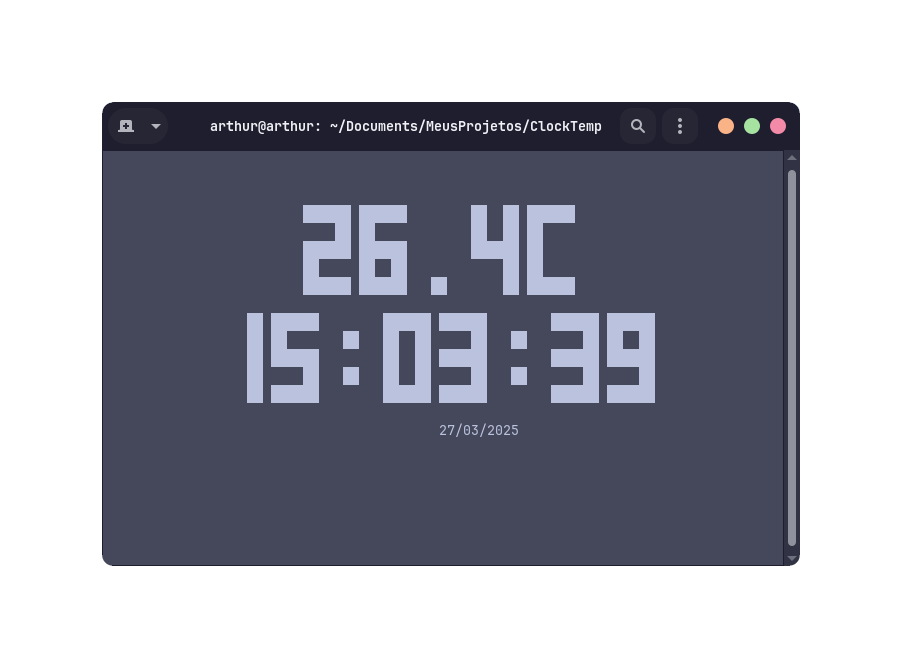
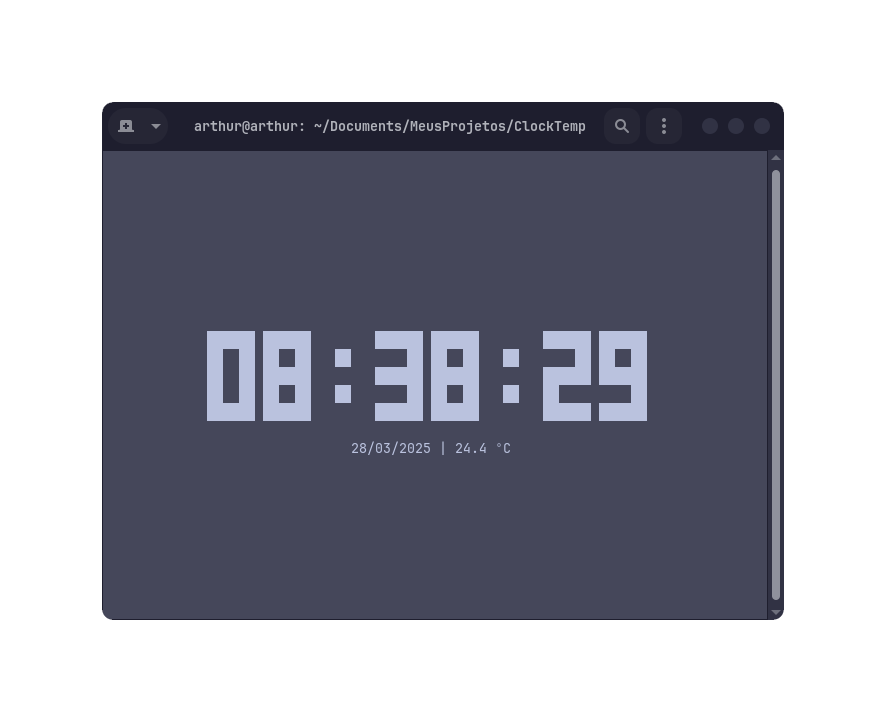
Minor improvments

Changed region(s): [[0.0914, 0.1198, 0.8837, 0.8683], [0.2133, 0.2994, 0.7314, 0.6587]]

diff --git a/main.py b/main.py
@@ -13,7 +13,7 @@ def get_weather():
 
 numbers = [
     [1,1,1,1,0,1,1,0,1,1,0,1,1,1,1],  # 0
-    [0,0,1,0,0,1,0,0,1,0,0,1,0,0,1],  # 1
+    [0,1,0,0,1,0,0,1,0,0,1,0,0,1,0],  # 1
     [1,1,1,0,0,1,1,1,1,1,0,0,1,1,1],  # 2
     [1,1,1,0,0,1,1,1,1,0,0,1,1,1,1],  # 3
     [1,0,1,1,0,1,1,1,1,0,0,1,0,0,1],  # 4
@@ -53,47 +53,28 @@ def render_time():
             lines[row] += digit_lines[row] + " "
     return lines
 
-def render_temp():
-    temp_format = "c"
-    current_temp = get_weather()
-    temp_str = f"{current_temp:.1f}"
-    lines = [""] * 5
-    for char in temp_str:
-        if char == ".":
-            digit_matrix = numbers[12]
-        else:
-            digit_matrix = numbers[int(char)]
-        digit_lines = render_digit(digit_matrix)
-        for row in range(5):
-            lines[row] += digit_lines[row] + " "
-    if temp_format == "c":
-        digit_matrix = numbers[13]
-    elif temp_format == "f":
-        digit_matrix = numbers[14]
-    digit_lines = render_digit(digit_matrix)
-    for row in range(5):
-        lines[row] += digit_lines[row] + " "
-    return lines
-
 def main(stdscr):
     curses.curs_set(0)  # Remove cursor
     stdscr.timeout(1000)  # 1 second tick
 
     last_time = ""
-    last_temp = ""
+    last_temp_update = 0
+    current_temp = "N/A"
 
     while True:
+        start_time = time.time()
+
+        # Refresh temperature
+        if time.time() - last_temp_update >= 600:
+            current_temp = get_weather()
+            last_temp_update = time.time()
+
         # Get terminal size
         height, width = stdscr.getmaxyx()
 
-        # Date
+        # Date and Temperature
         current_date = datetime.today().strftime("%d/%m/%Y")
-
-        date_height = len(current_date)
-        date_width = len(current_date[0])
-
-        date_start_y = (height - date_height) // 2
-        date_start_x = (width - date_width) // 2
+        dateTemp = f"{current_date} | {current_temp:.1f} ºC" if isinstance(current_temp, (int, float)) else f"{current_date} | {current_temp}"
 
         # Clock
         current_time_lines = render_time()
@@ -104,25 +85,12 @@ def main(stdscr):
         clock_start_y = (height - clock_height) // 2
         clock_start_x = (width - clock_width) // 2
 
-        # Weather
-        current_temp_lines = render_temp()
-
-        temp_height = len(current_temp_lines)
-        temp_width = len(current_temp_lines[0])
-
-        temp_start_y = (height - temp_height) // 2 - 6
-        temp_start_x = (width - temp_width) // 2
-
         if "\n".join(current_time_lines) != last_time:
+            stdscr.clear()
             for i, line in enumerate(current_time_lines):
                 stdscr.addstr(clock_start_y + i, clock_start_x, line)
             last_time = "\n".join(current_time_lines)
-            stdscr.addstr(date_start_y + 9, date_start_x, current_date)
-        
-        if "\n".join(current_temp_lines) != last_temp:
-            for i, line in enumerate(current_temp_lines):
-                stdscr.addstr(temp_start_y + i, temp_start_x, line)
-            last_temp = "\n".join(current_temp_lines)
+            stdscr.addstr(clock_start_y + 6, clock_start_x + 18, dateTemp)
 
         # Refresh terminal
         stdscr.refresh()
@@ -131,5 +99,10 @@ def main(stdscr):
         key = stdscr.getch()
         if key == ord('q'):
             break
+
+        # 1 second for each interaction
+        elapsed_time = time.time() - start_time
+        sleep_time = max(0, 1.0 - elapsed_time)
+        time.sleep(sleep_time)
 
 curses.wrapper(main)
